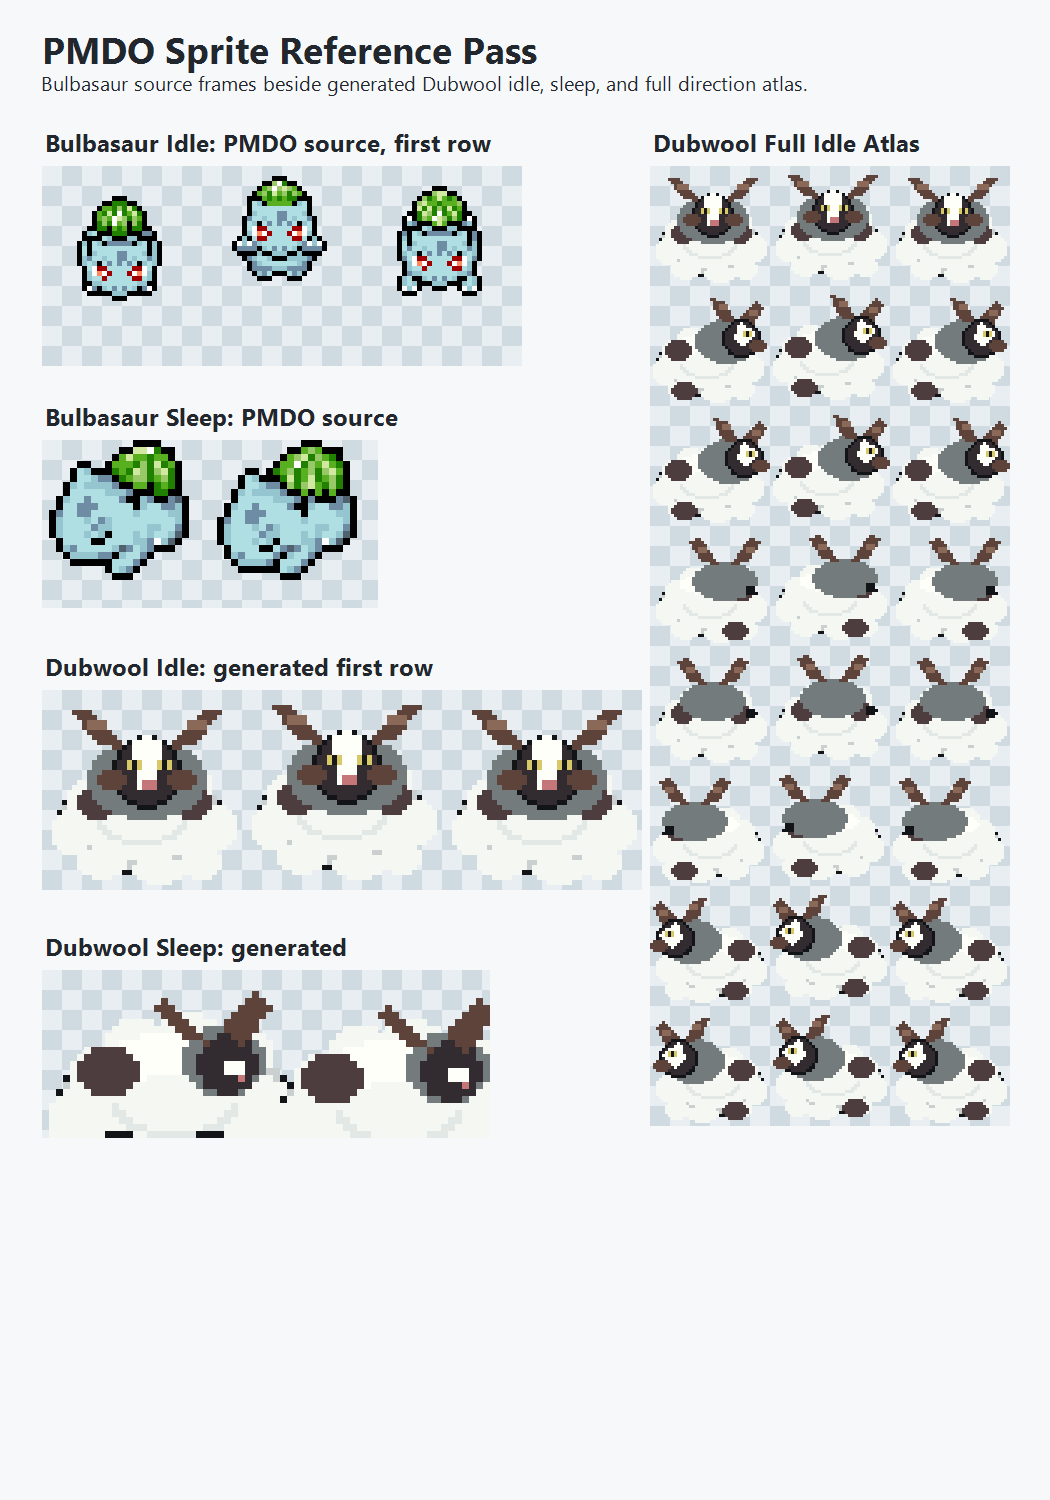
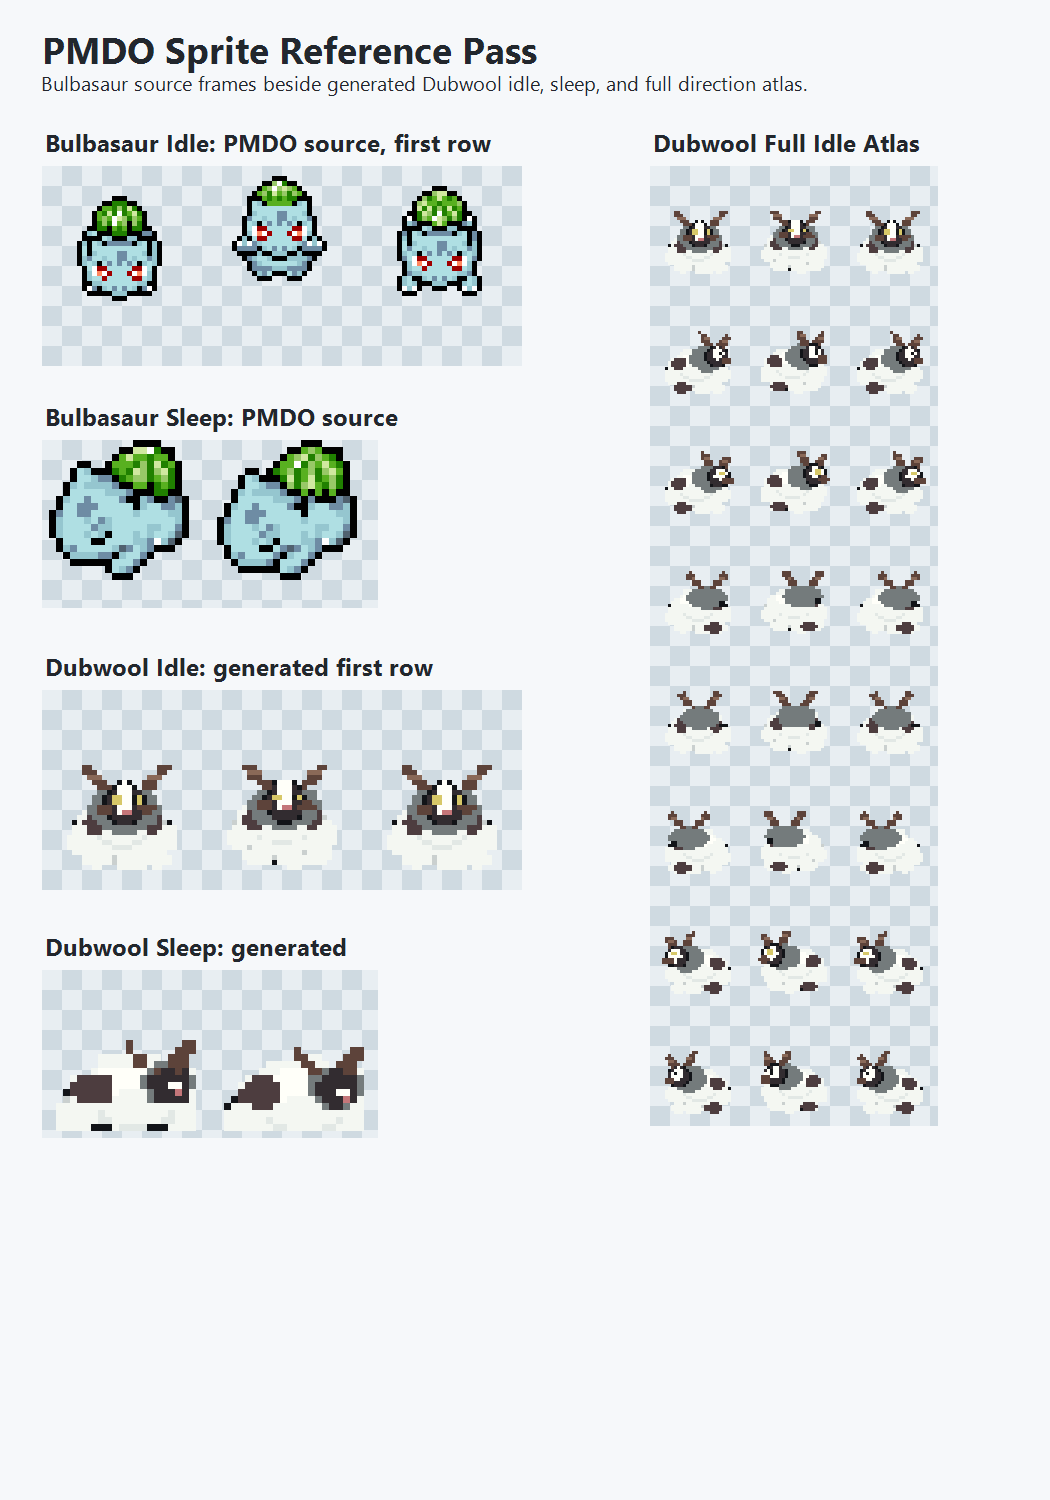
Match generated sprite sheets to PMDO frame scale

Changed region(s): [[0.0305, 0.092, 0.9752, 0.7667], [0.0305, 0.644, 0.4876, 0.7667]]

diff --git a/docs/assets/previews/missing-pokemon-sprite-report.md b/docs/assets/previews/missing-pokemon-sprite-report.md
@@ -1,6 +1,6 @@
-# Missing Pokemon Sprite Generation Report
+# Missing Pokemon Sprite Generation Report
 
-- Generated on: 2026-06-10 20:20:29 -04:00
+- Generated on: 2026-06-10 20:34:39 -04:00
 - National Dex range: 0001-1025
 - Missing folders detected before generation: 77
 - Generated folders this run: 77
@@ -11,80 +11,80 @@
 
 | Dex | Name | Idle pixels | Sleep pixels | Status |
 | --- | --- | ---: | ---: | --- |
-| 0514 | simisear | 19731 | 622 | ok |
-| 0516 | simipour | 17859 | 584 | ok |
-| 0520 | tranquill | 13680 | 512 | ok |
-| 0522 | blitzle | 10683 | 356 | ok |
-| 0523 | zebstrika | 14544 | 484 | ok |
-| 0538 | throh | 14412 | 648 | ok |
-| 0539 | sawk | 16944 | 540 | ok |
-| 0558 | crustle | 16530 | 804 | ok |
-| 0564 | tirtouga | 9939 | 504 | ok |
-| 0565 | carracosta | 16017 | 748 | ok |
-| 0580 | ducklett | 15690 | 514 | ok |
-| 0588 | karrablast | 12843 | 420 | ok |
-| 0591 | amoonguss | 18906 | 744 | ok |
-| 0592 | frillish | 14619 | 524 | ok |
-| 0594 | alomomola | 10680 | 324 | ok |
-| 0599 | klink | 13986 | 642 | ok |
-| 0600 | klang | 15819 | 748 | ok |
-| 0601 | klinklang | 11100 | 578 | ok |
-| 0616 | shelmet | 18360 | 676 | ok |
-| 0617 | accelgor | 13416 | 546 | ok |
-| 0626 | bouffalant | 15033 | 686 | ok |
-| 0660 | diggersby | 15240 | 722 | ok |
-| 0712 | bergmite | 16644 | 532 | ok |
-| 0713 | avalugg | 17817 | 560 | ok |
-| 0731 | pikipek | 14637 | 616 | ok |
-| 0732 | trumbeak | 13293 | 726 | ok |
-| 0734 | yungoos | 8772 | 474 | ok |
-| 0735 | gumshoos | 12072 | 514 | ok |
-| 0748 | toxapex | 12864 | 658 | ok |
-| 0750 | mudsdale | 17547 | 592 | ok |
-| 0756 | shiinotic | 13476 | 546 | ok |
-| 0765 | oranguru | 15651 | 768 | ok |
-| 0775 | komala | 16539 | 666 | ok |
-| 0819 | skwovet | 13257 | 418 | ok |
-| 0820 | greedent | 19971 | 606 | ok |
-| 0834 | drednaw | 11688 | 606 | ok |
-| 0836 | boltund | 11220 | 600 | ok |
-| 0837 | rolycoly | 15858 | 750 | ok |
-| 0838 | carkol | 17451 | 532 | ok |
-| 0839 | coalossal | 16116 | 528 | ok |
-| 0847 | barraskewda | 7005 | 380 | ok |
-| 0863 | perrserker | 18876 | 610 | ok |
-| 0866 | mr-rime | 18252 | 636 | ok |
-| 0878 | cufant | 16164 | 614 | ok |
-| 0889 | zamazenta | 17235 | 556 | ok |
-| 0893 | zarude | 14343 | 496 | ok |
-| 0896 | glastrier | 12420 | 424 | ok |
-| 0913 | quaxwell | 11448 | 390 | ok |
-| 0916 | oinkologne | 17364 | 588 | ok |
-| 0917 | tarountula | 14202 | 458 | ok |
-| 0930 | arboliva | 10596 | 534 | ok |
-| 0931 | squawkabilly | 11013 | 572 | ok |
-| 0942 | maschiff | 12672 | 658 | ok |
-| 0943 | mabosstiff | 16794 | 646 | ok |
-| 0944 | shroodle | 14571 | 650 | ok |
-| 0945 | grafaiai | 15780 | 628 | ok |
-| 0946 | bramblin | 17628 | 680 | ok |
-| 0947 | brambleghast | 17829 | 676 | ok |
-| 0949 | toedscruel | 13395 | 446 | ok |
-| 0950 | klawf | 14028 | 694 | ok |
-| 0953 | rellor | 14097 | 708 | ok |
-| 0954 | rabsca | 13734 | 438 | ok |
-| 0956 | espathra | 14565 | 484 | ok |
-| 0962 | bombirdier | 12165 | 472 | ok |
-| 0973 | flamigo | 7083 | 244 | ok |
-| 0977 | dondozo | 13440 | 634 | ok |
-| 0986 | brute-bonnet | 18342 | 788 | ok |
-| 0993 | iron-jugulis | 15309 | 620 | ok |
-| 0994 | iron-moth | 14421 | 594 | ok |
-| 1001 | wo-chien | 17181 | 634 | ok |
-| 1002 | chien-pao | 12378 | 656 | ok |
-| 1010 | iron-leaves | 11268 | 354 | ok |
-| 1012 | poltchageist | 12516 | 634 | ok |
-| 1013 | sinistcha | 13983 | 448 | ok |
-| 1014 | okidogi | 16362 | 706 | ok |
-| 1022 | iron-boulder | 17610 | 664 | ok |
-| 1023 | iron-crown | 10161 | 320 | ok |
+| 0514 | simisear | 16980 | 582 | ok |
+| 0516 | simipour | 17028 | 554 | ok |
+| 0520 | tranquill | 12456 | 456 | ok |
+| 0522 | blitzle | 10419 | 356 | ok |
+| 0523 | zebstrika | 13449 | 484 | ok |
+| 0538 | throh | 12540 | 450 | ok |
+| 0539 | sawk | 15975 | 540 | ok |
+| 0558 | crustle | 15177 | 494 | ok |
+| 0564 | tirtouga | 9147 | 332 | ok |
+| 0565 | carracosta | 14130 | 472 | ok |
+| 0580 | ducklett | 14778 | 514 | ok |
+| 0588 | karrablast | 11979 | 420 | ok |
+| 0591 | amoonguss | 16593 | 590 | ok |
+| 0592 | frillish | 13107 | 460 | ok |
+| 0594 | alomomola | 10368 | 324 | ok |
+| 0599 | klink | 12354 | 440 | ok |
+| 0600 | klang | 14355 | 500 | ok |
+| 0601 | klinklang | 10164 | 346 | ok |
+| 0616 | shelmet | 16896 | 576 | ok |
+| 0617 | accelgor | 12024 | 426 | ok |
+| 0626 | bouffalant | 13332 | 466 | ok |
+| 0660 | diggersby | 13617 | 462 | ok |
+| 0712 | bergmite | 15228 | 502 | ok |
+| 0713 | avalugg | 16833 | 538 | ok |
+| 0731 | pikipek | 13221 | 486 | ok |
+| 0732 | trumbeak | 12285 | 458 | ok |
+| 0734 | yungoos | 7956 | 308 | ok |
+| 0735 | gumshoos | 11040 | 402 | ok |
+| 0748 | toxapex | 11448 | 418 | ok |
+| 0750 | mudsdale | 15603 | 526 | ok |
+| 0756 | shiinotic | 12012 | 464 | ok |
+| 0765 | oranguru | 13716 | 494 | ok |
+| 0775 | komala | 14730 | 526 | ok |
+| 0819 | skwovet | 12633 | 418 | ok |
+| 0820 | greedent | 19428 | 606 | ok |
+| 0834 | drednaw | 10608 | 370 | ok |
+| 0836 | boltund | 10092 | 382 | ok |
+| 0837 | rolycoly | 14586 | 490 | ok |
+| 0838 | carkol | 16500 | 532 | ok |
+| 0839 | coalossal | 15276 | 528 | ok |
+| 0847 | barraskewda | 6264 | 294 | ok |
+| 0863 | perrserker | 16860 | 566 | ok |
+| 0866 | mr-rime | 16173 | 570 | ok |
+| 0878 | cufant | 13956 | 526 | ok |
+| 0889 | zamazenta | 16410 | 532 | ok |
+| 0893 | zarude | 13527 | 496 | ok |
+| 0896 | glastrier | 12213 | 424 | ok |
+| 0913 | quaxwell | 10743 | 390 | ok |
+| 0916 | oinkologne | 14988 | 518 | ok |
+| 0917 | tarountula | 13260 | 458 | ok |
+| 0930 | arboliva | 9108 | 356 | ok |
+| 0931 | squawkabilly | 9333 | 372 | ok |
+| 0942 | maschiff | 11343 | 426 | ok |
+| 0943 | mabosstiff | 14874 | 530 | ok |
+| 0944 | shroodle | 13455 | 442 | ok |
+| 0945 | grafaiai | 14061 | 502 | ok |
+| 0946 | bramblin | 15150 | 530 | ok |
+| 0947 | brambleghast | 15717 | 530 | ok |
+| 0949 | toedscruel | 13020 | 446 | ok |
+| 0950 | klawf | 11952 | 436 | ok |
+| 0953 | rellor | 12600 | 434 | ok |
+| 0954 | rabsca | 12822 | 438 | ok |
+| 0956 | espathra | 13869 | 484 | ok |
+| 0962 | bombirdier | 10701 | 418 | ok |
+| 0973 | flamigo | 6555 | 244 | ok |
+| 0977 | dondozo | 12171 | 414 | ok |
+| 0986 | brute-bonnet | 16638 | 578 | ok |
+| 0993 | iron-jugulis | 13725 | 490 | ok |
+| 0994 | iron-moth | 12876 | 468 | ok |
+| 1001 | wo-chien | 16101 | 562 | ok |
+| 1002 | chien-pao | 11250 | 418 | ok |
+| 1010 | iron-leaves | 11004 | 354 | ok |
+| 1012 | poltchageist | 11268 | 408 | ok |
+| 1013 | sinistcha | 13143 | 448 | ok |
+| 1014 | okidogi | 14370 | 522 | ok |
+| 1022 | iron-boulder | 15930 | 560 | ok |
+| 1023 | iron-crown | 9849 | 320 | ok |
